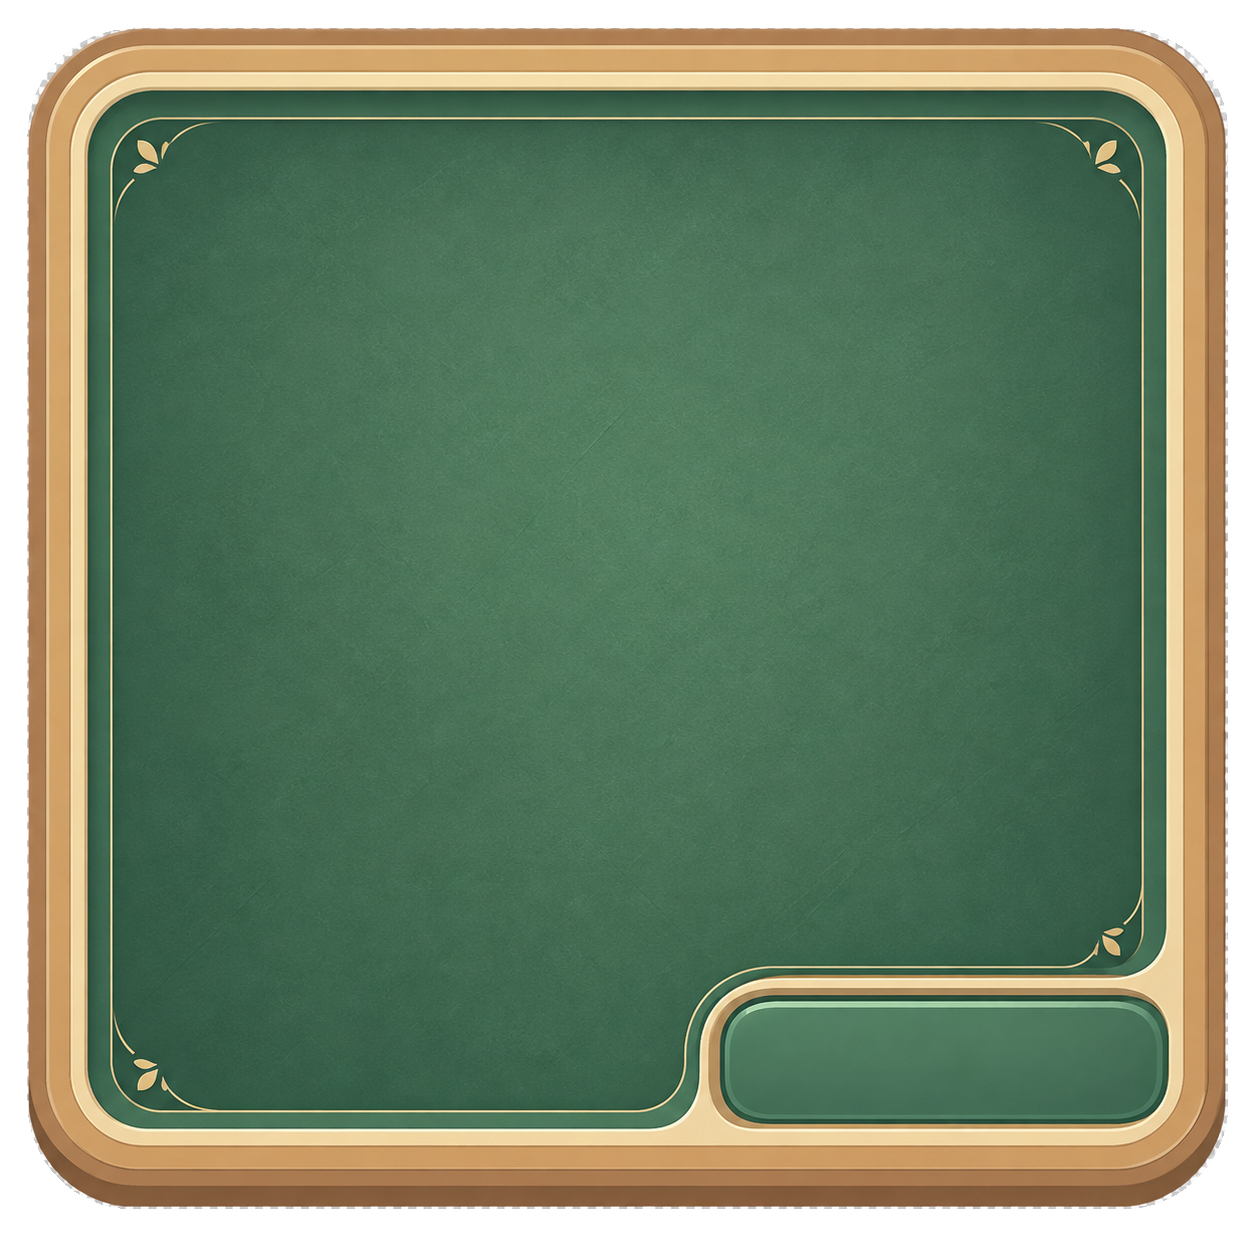
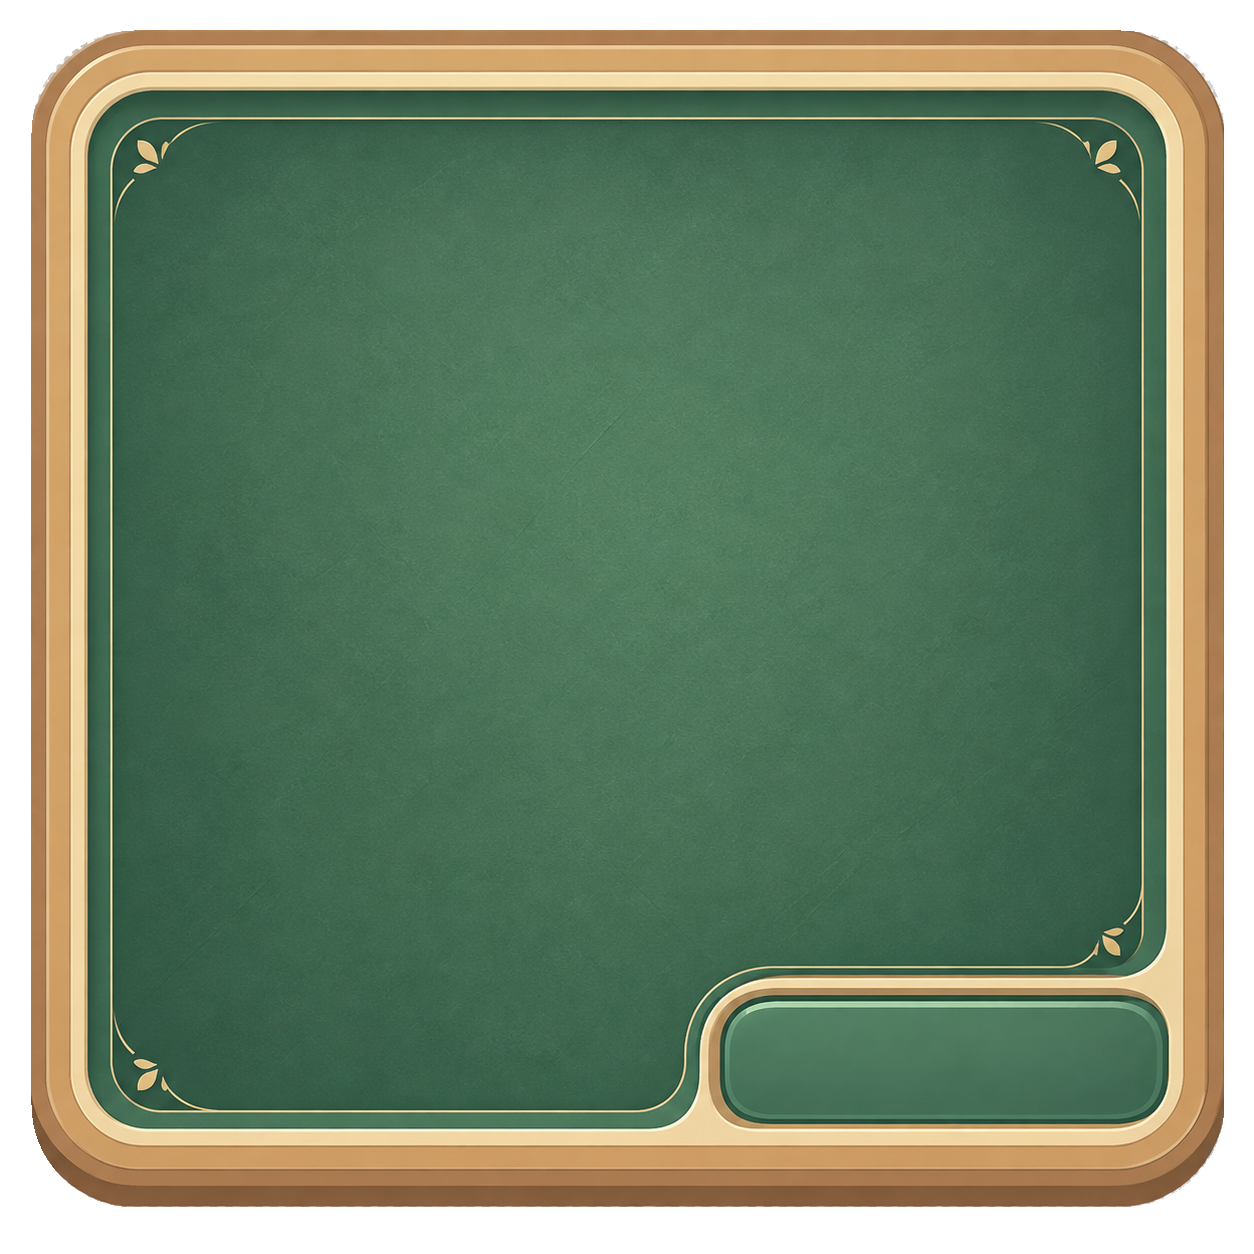
Clean and align softer dice tray

diff --git a/public/yatsun/styles.css b/public/yatsun/styles.css
@@ -376,7 +376,7 @@ body.playing .game-shell .roll-button{right:52px;bottom:130px}
 }
 
 /* The artwork and the physical obstacle share this exact bottom-right action. */
-.game-shell .dice-tray{background-image:url('./assets/dice-tray-soft-v3.png')}
+.game-shell .dice-tray{background-image:url('./assets/dice-tray-soft-v3.png?v=2')}
 body.playing .game-shell .roll-button{right:6.2%;bottom:8.6%;width:39%;min-width:0;height:12.5%;min-height:58px;margin:0;padding:8px 18px;grid-template-columns:1fr;grid-template-rows:auto auto;align-content:center;row-gap:3px;border:0;border-radius:24px;background:transparent;color:#fff4cf;box-shadow:none;text-shadow:0 2px 2px #153e2e;z-index:8}
 body.playing .game-shell .roll-button:hover{transform:none;filter:brightness(1.12)}body.playing .game-shell .roll-button:active{transform:translateY(1px)}
 body.playing .game-shell .roll-button .roll-die-icon{display:none}body.playing .game-shell .roll-button b{font-size:clamp(10px,1vw,15px);line-height:1.1;letter-spacing:.8px}body.playing .game-shell .roll-button small{color:#e9dec0;line-height:1.1}
@@ -390,6 +390,7 @@ body.playing .game-shell .roll-button .roll-die-icon{display:none}body.playing .
 @media(min-width:901px){
   body.playing .site-header .ai-reaction{position:fixed;top:235px!important;left:calc(max(0px,(100vw - 1200px)/2) + 170px)!important;right:auto!important;transform-origin:0 50%}
   body.playing .site-header .ai-reaction::after{top:34px!important;left:-11px!important;right:auto!important}
+  body.playing .game-shell .dice-tray{inset:-21px 16px 92px}
 }
 .home-sidebar{display:none}
 @media(min-width:901px){body:not(.playing) .home-sidebar{display:block}}

diff --git a/public/yatsun/index.html b/public/yatsun/index.html
@@ -6,7 +6,7 @@
     <meta name="theme-color" content="#f6f1ff" />
     <meta name="description" content="Yatsun – svensk Yatzy med singelspel, vänner och livematcher." />
     <title>Yatsun – Yatzy med karaktär</title>
-    <link rel="stylesheet" href="./styles.css?v=latestfront56" />
+    <link rel="stylesheet" href="./styles.css?v=trayalign57" />
     <link rel="stylesheet" href="./social.css?v=20260903a" />
     <link rel="stylesheet" href="./progression.css?v=map16" />
     <script type="importmap">{"imports":{"three":"https://cdn.jsdelivr.net/npm/three@0.180.0/build/three.module.min.js","three/addons/":"https://cdn.jsdelivr.net/npm/three@0.180.0/examples/jsm/"}}</script>
